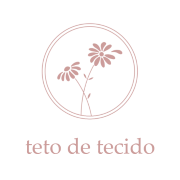
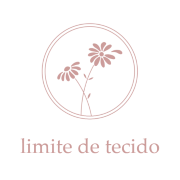
Nome BMQ | Tecido, ícone com 'limite de tecido', moldura sem balanço

Changed region(s): [[0.1111, 0.75, 0.8889, 0.8611]]

diff --git a/index.html b/index.html
@@ -3,8 +3,8 @@
 <head>
   <meta charset="utf-8">
   <meta name="viewport" content="width=device-width, initial-scale=1, viewport-fit=cover">
-  <title>Teto de tecido</title>
-  <!-- Porta de entrada do Teto de tecido (bem-me-quer): só existe para o celular guardar o
+  <title>BMQ | Tecido</title>
+  <!-- Porta de entrada do app BMQ | Tecido (Limite de Tecido, bem-me-quer): só existe para o celular guardar o
        ícone e o nome certos no atalho da tela de início. O app de verdade roda no Google,
        dentro do quadro abaixo. Mesma receita do app splitLKS. -->
   <link rel="apple-touch-icon" href="https://belovedmodas.github.io/teto/apple-touch-icon.png">
@@ -13,12 +13,13 @@
   <link rel="icon" type="image/png" sizes="512x512" href="https://belovedmodas.github.io/teto/icone-512.png">
   <meta name="apple-mobile-web-app-capable" content="yes">
   <meta name="mobile-web-app-capable" content="yes">
-  <meta name="apple-mobile-web-app-title" content="Teto de tecido">
+  <meta name="apple-mobile-web-app-title" content="BMQ | Tecido">
   <meta name="apple-mobile-web-app-status-bar-style" content="default">
   <meta name="theme-color" content="#cc9c9a">
   <style>
-    html, body { margin: 0; height: 100%; background: #fbf6f5; }
-    iframe { border: 0; width: 100%; height: 100%; display: block; }
+    /* A moldura não rola nem balança: quem rola é só o app, dentro do quadro. */
+    html, body { margin: 0; height: 100%; width: 100%; overflow: hidden; overscroll-behavior: none; background: #fbf6f5; }
+    iframe { border: 0; width: 100%; max-width: 100%; height: 100%; display: block; }
     /* No iPhone o Google mostra dentro do quadro um aviso de 85px no alto
        ("Este aplicativo foi criado por um usuário..."). Medido no app splitLKS em telas de
        320 a 480px de largura. Empurra o quadro para cima para escondê-lo. */
@@ -40,7 +41,7 @@
     var APP = 'https://script.google.com/macros/s/AKfycbzxvcJgJAHMUKK5iaI6qMg9JHMQVblnWtmftBFntva143mi0WAiNU-WNpqwOe8eRjKR/exec';
     var f = document.createElement('iframe');
     f.src = APP;
-    f.title = 'Teto de tecido';
+    f.title = 'BMQ | Tecido';
     document.body.appendChild(f);
   </script>
 </body>
